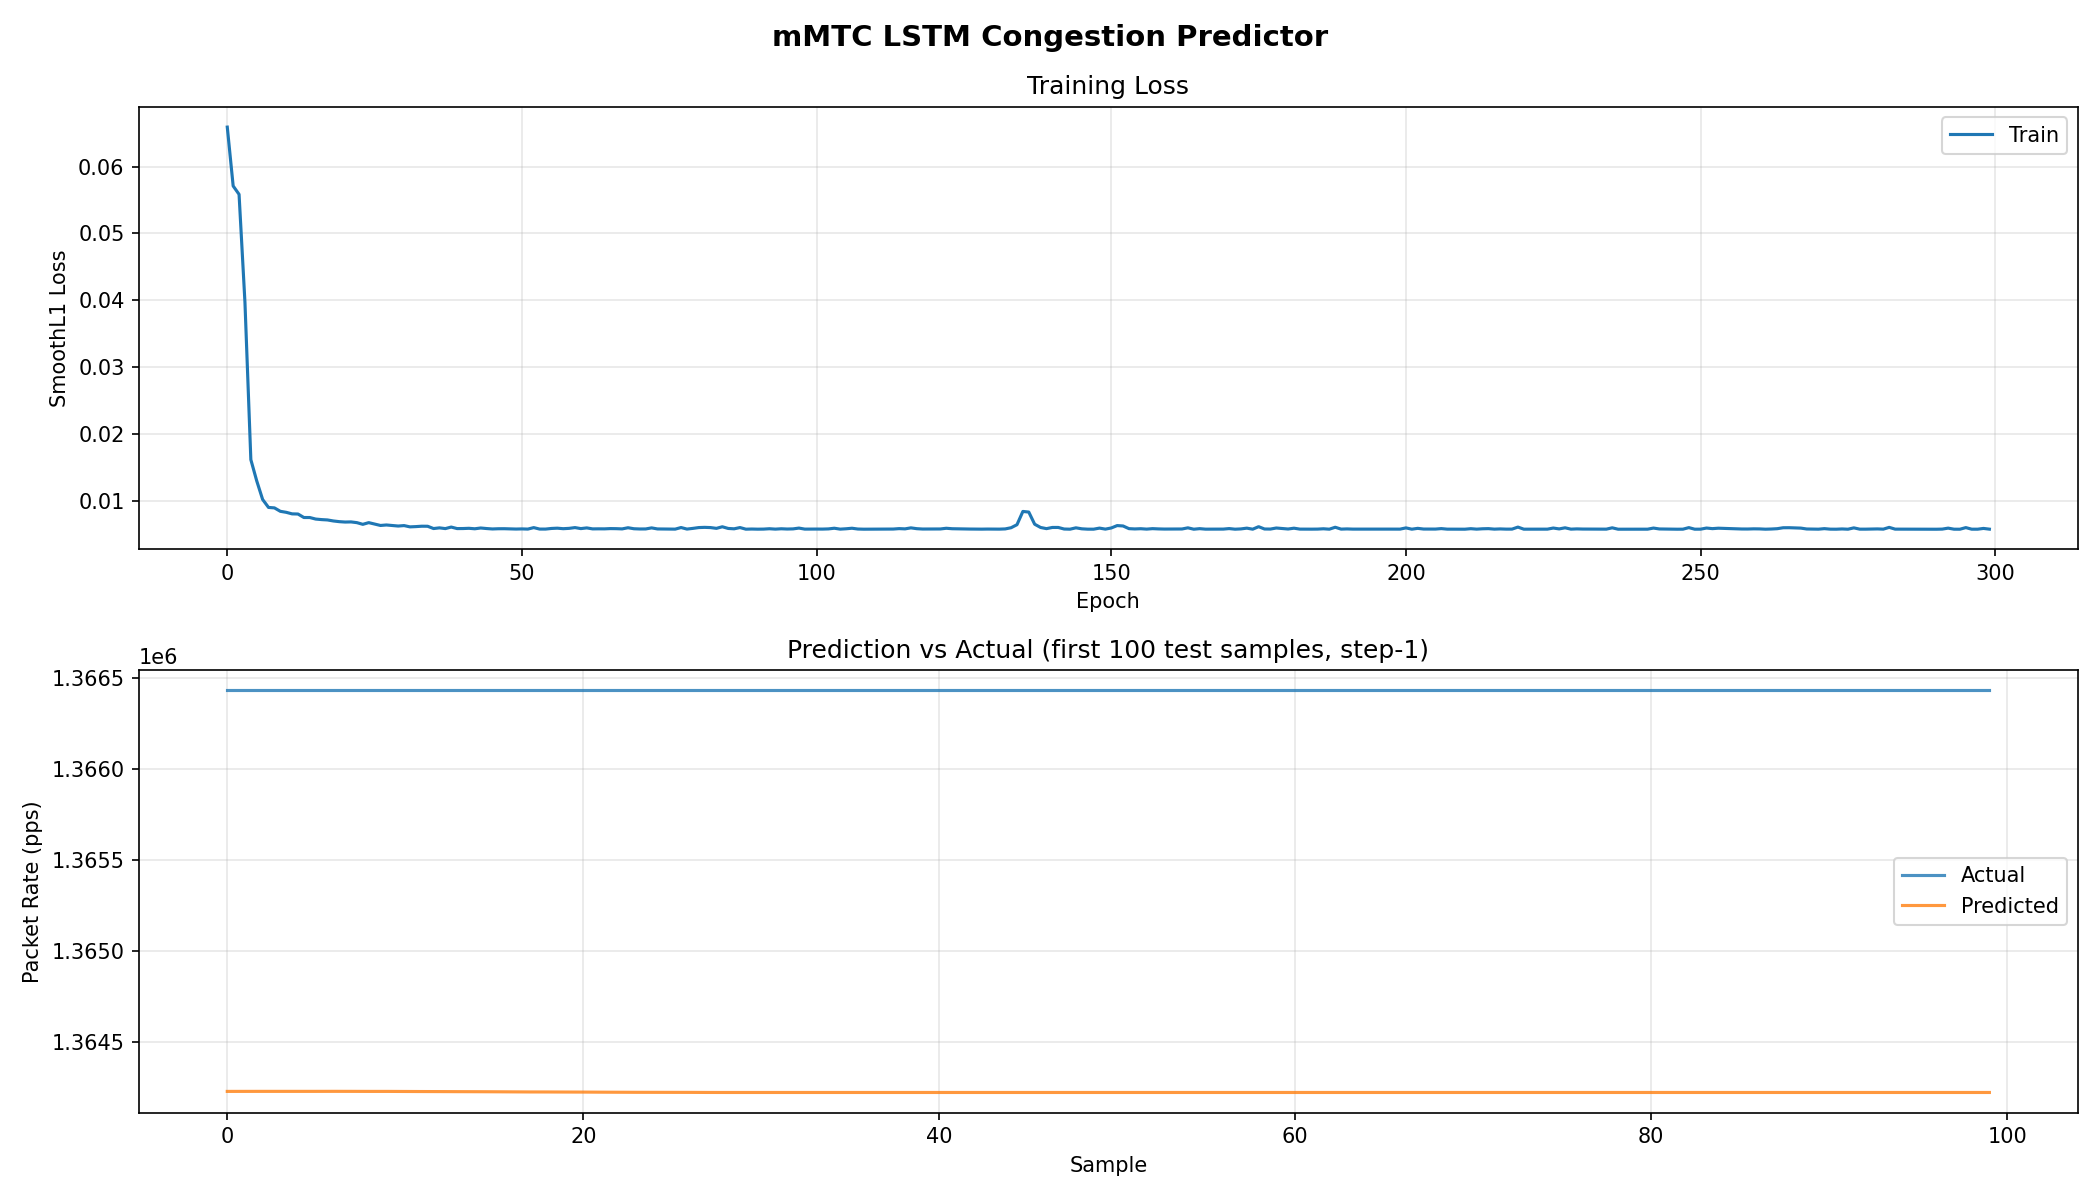
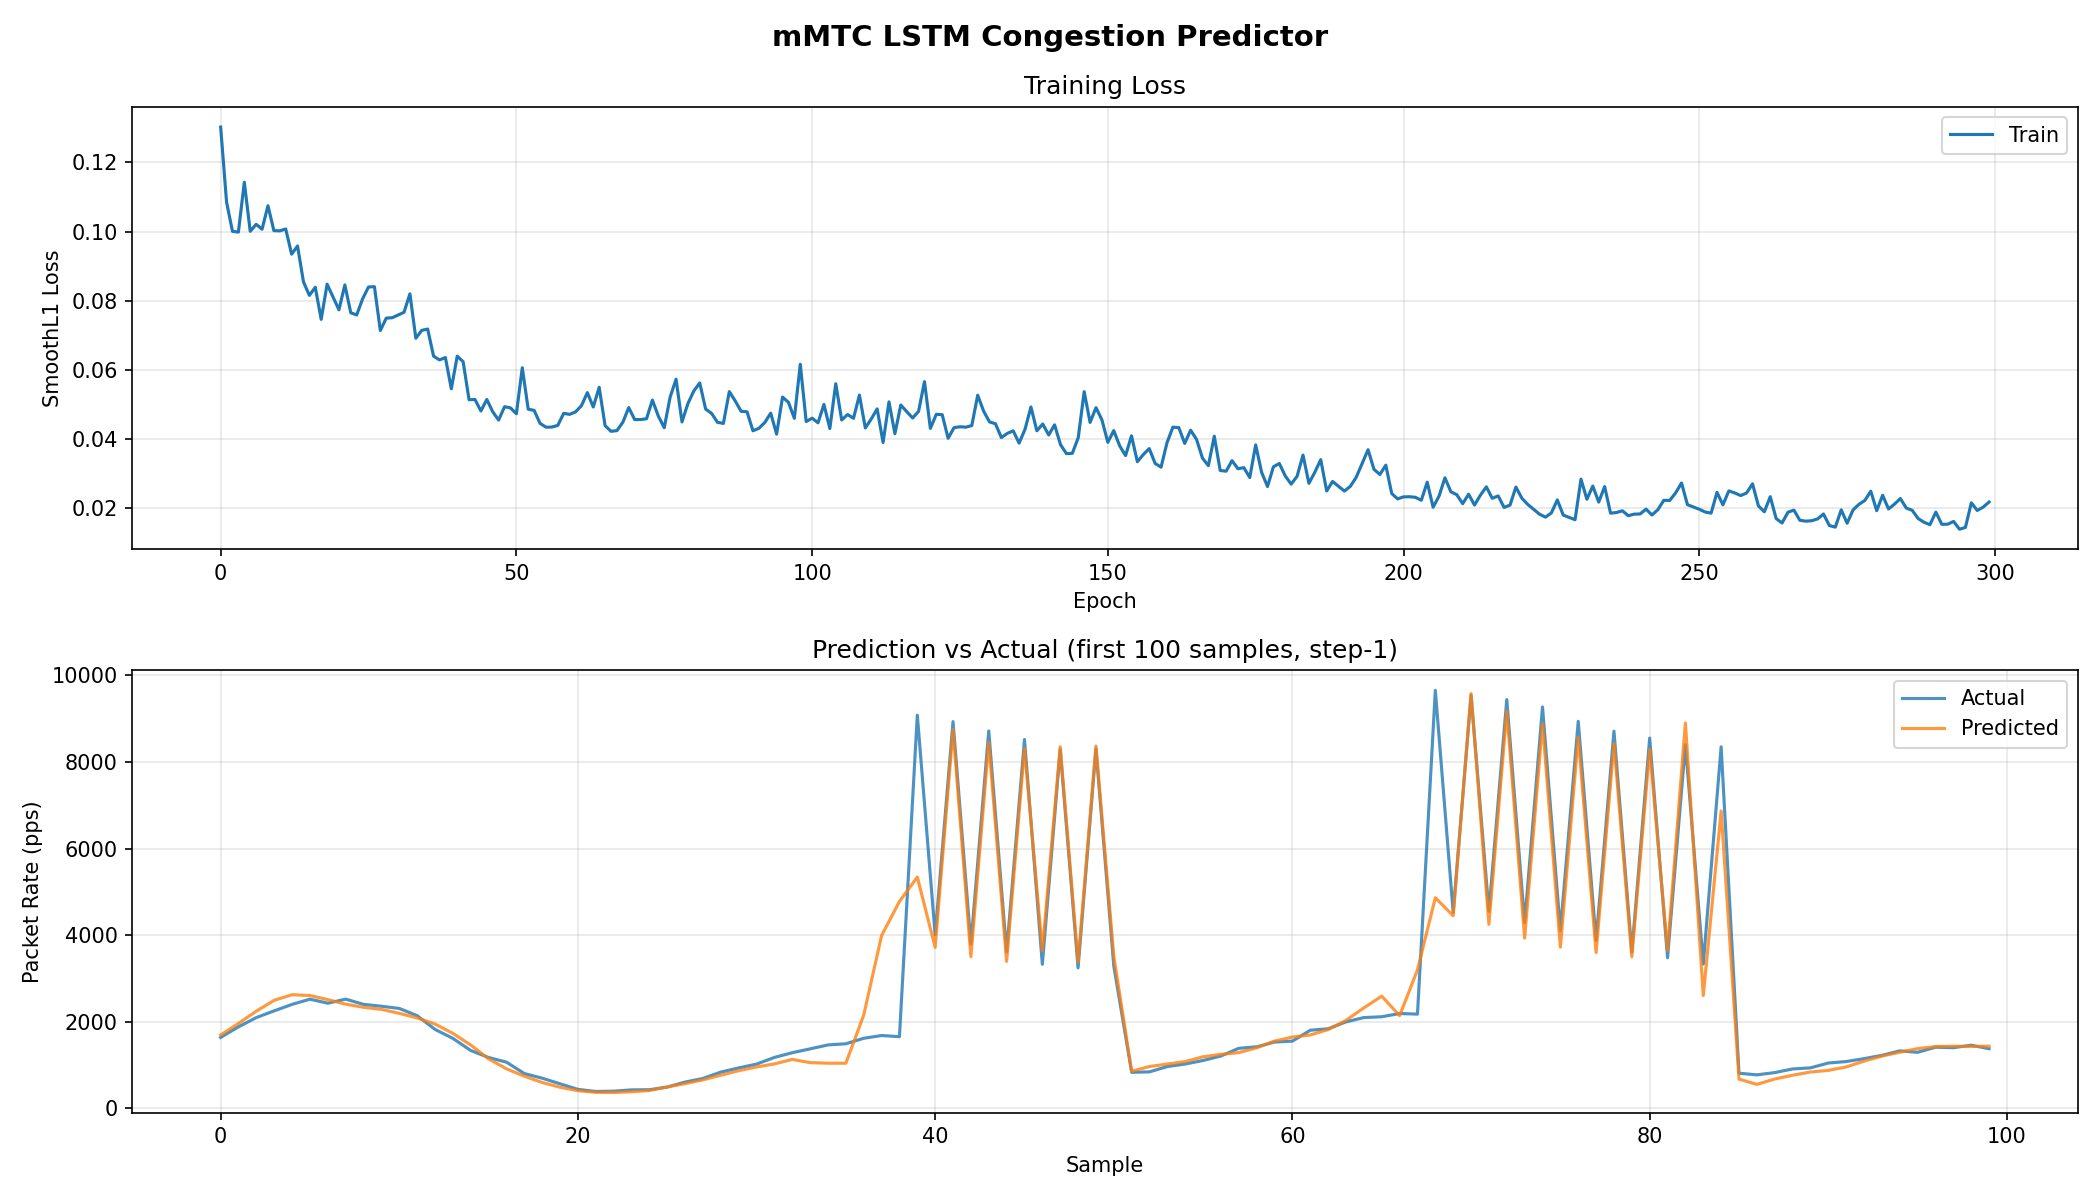
update visualisations

diff --git a/5g-slicing-mmtc/models/lstm_predictor.py b/5g-slicing-mmtc/models/lstm_predictor.py
@@ -78,7 +78,7 @@ def train_and_evaluate():
     set_seed(SEED)
 
     # Load data
-    data_path = os.path.join(BASE_DIR, '..', 'data', 'mmtc_traffic_timeseries.csv')
+    data_path = os.path.join(BASE_DIR, '..', 'data', 'lstm_controller_stats.csv')
     df = pd.read_csv(data_path)
 
     # mMTC key metric: packet_rate (connection density proxy)
@@ -141,10 +141,13 @@ def train_and_evaluate():
     model.eval()
     with torch.no_grad():
         preds = model(X_test_t).numpy()
+        train_preds = model(X_train_t).numpy()
 
     # Inverse scaling
     preds_inv = scaler.inverse_transform(preds.reshape(-1, 1)).reshape(preds.shape)
     y_test_inv = scaler.inverse_transform(y_test.reshape(-1, 1)).reshape(y_test.shape)
+    train_preds_inv = scaler.inverse_transform(train_preds.reshape(-1, 1)).reshape(train_preds.shape)
+    y_train_inv = scaler.inverse_transform(y_train.reshape(-1, 1)).reshape(y_train.shape)
 
     mae = mean_absolute_error(y_test_inv.flatten(), preds_inv.flatten())
     rmse = np.sqrt(mean_squared_error(y_test_inv.flatten(), preds_inv.flatten()))
@@ -190,9 +193,9 @@ def train_and_evaluate():
     axes[0].legend(['Train'])
     axes[0].grid(True, alpha=0.3)
 
-    axes[1].plot(y_test_inv[:100, 0], label='Actual', alpha=0.8)
-    axes[1].plot(preds_inv[:100, 0], label='Predicted', alpha=0.8)
-    axes[1].set_title('Prediction vs Actual (first 100 test samples, step-1)')
+    axes[1].plot(y_train_inv[:100, 0], label='Actual', alpha=0.8)
+    axes[1].plot(train_preds_inv[:100, 0], label='Predicted', alpha=0.8)
+    axes[1].set_title('Prediction vs Actual (first 100 samples, step-1)')
     axes[1].set_xlabel('Sample')
     axes[1].set_ylabel('Packet Rate (pps)')
     axes[1].legend()
